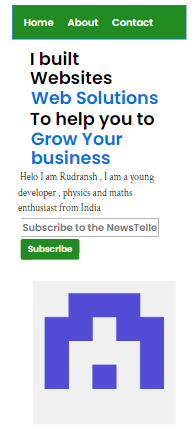
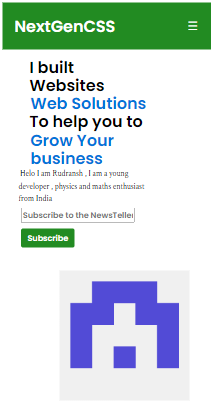
example updated

diff --git a/src/index.css b/src/index.css
@@ -1,1 +1,1 @@
-@import url("https://fonts.googleapis.com/css2?family=Instrument+Sans:wght@400;600&family=Poppins:wght@600&display=swap");@import url("https://fonts.googleapis.com/css2?family=Crimson+Text&family=Playfair+Display:ital@1&display=swap");@import url("https://fonts.googleapis.com/css2?family=Instrument+Sans:wght@400;600&family=Poppins:wght@600&display=swap");@import url("https://fonts.googleapis.com/css2?family=Crimson+Text&family=Playfair+Display:ital@1&display=swap");@use 'sass:math';.font-serif{font-family:serif}.font-sans{font-family:sans-serif}.font-arial{font-family:Arial,Helvetica,sans-serif}.font-primary{color:#0074d9}.font-dark{color:#000}.font-alert{color:#dc143c}.font-leaf{color:#228b22}.font-orange{color:#ff4500}.font-yellow{color:#ffd700}.font-gray{color:#708090}.font-purple{color:#967bb6}.font-choco{color:#d2691e}.font-pink{color:#ff69b4}.font-white{color:#fff}*,*::before,*::after{box-sizing:border-box}html{-moz-text-size-adjust:none;-webkit-text-size-adjust:none;text-size-adjust:none}body,h1,h2,h3,h4,p,figure,blockquote,dl,dd{margin:0}ul[role='list'],ol[role='list']{list-style:none}body{min-height:100vh;line-height:1.5}h1,h2,h3,h4,button,input,label{line-height:1.1}h1,h2,h3,h4{text-wrap:balance}a:not([class]){text-decoration-skip-ink:auto;color:currentColor}img,picture{max-width:100%;display:block}input,button,textarea,select{font:inherit}textarea:not([rows]){min-height:10em}:target{scroll-margin-block:5ex}.lazy-load,*{content-visibility:auto}.no-lazy-load{content-visibility:visible}body{font-size:16px}@media only screen and (max-width:767px){body{font-size:16px}}@media only screen and (min-width:768px) and (max-width:991px){body{font-size:18px}}@media only screen and (min-width:992px){body{font-size:20px}}.font-serif{font-family:serif}.font-sans{font-family:sans-serif}.font-arial{font-family:Arial,Helvetica,sans-serif}.font-primary{color:#0074d9}.font-dark{color:#000}.font-alert{color:#dc143c}.font-leaf{color:#228b22}.font-orange{color:#ff4500}.font-yellow{color:#ffd700}.font-gray{color:#708090}.font-purple{color:#967bb6}.font-choco{color:#d2691e}.font-pink{color:#ff69b4}.font-white{color:#fff}button{cursor:pointer;outline:0;color:#fff;background-color:#0074d9;border-color:#0074d9;display:inline-block;font-weight:400;line-height:1.5;text-align:center;border:.0625rem solid transparent;padding:.375rem .75rem;font-size:1rem;border-radius:.25rem}button:hover{color:#fff;background-color:#708090;border-color:#708090}.btn-curve{outline:0;cursor:pointer;font-size:1rem;line-height:1.25rem;font-weight:600;border-radius:.5rem;border:0;background:#0074d9;color:#fff}.btn-curve:hover{color:#fff;background-color:#708090;border-color:#708090}.btn-bootstrap{cursor:pointer;outline:0;display:inline-block;font-weight:400;line-height:1.5;text-align:center;background-color:transparent;border:1px solid transparent;padding:6px 12px;font-size:1rem;border-radius:.25rem;transition:color .15s ease-in-out,background-color .15s ease-in-out,border-color .15s ease-in-out,box-shadow .15s ease-in-out;color:#0074d9;border-color:#0074d9}.btn-bootstrap:hover{color:#fff;background-color:#708090;border-color:#708090}.btn-circle{display:inline-block;outline:0;cursor:pointer;font-size:14px;line-height:1;border-radius:500px;transition-property:background-color,border-color,color,box-shadow,filter;transition-duration:.3s;border:1px solid transparent;letter-spacing:2px;min-width:160px;text-transform:uppercase;white-space:normal;font-weight:700;text-align:center;padding:16px 14px 18px;color:#fff;background-color:#228b22;height:48px}.btn-circle :hover{background-color:#708090}.bg-primary{background-color:#0074d9}.bg-dark{background-color:#000}.bg-alert{background-color:#dc143c}.bg-leaf{background-color:#228b22}.bg-orange{background-color:#ff4500}.bg-yellow{background-color:#ffd700}.bg-gray{background-color:#708090}.bg-purple{background-color:#967bb6}.bg-choco{background-color:#d2691e}.bg-pink{background-color:#ff69b4}.bg-white{background-color:#fff}.br-primary{border-right:.1rem solid #0074d9}.br-dark{border-right:.1rem solid #000}.br-alert{border-right:.1rem solid #dc143c}.br-leaf{border-right:.1rem solid #228b22}.br-orange{border-right:.1rem solid #ff4500}.br-yellow{border-right:.1rem solid #ffd700}.br-gray{border-right:.1rem solid #708090}.br-purple{border-right:.1rem solid #967bb6}.br-choco{border-right:.1rem solid #d2691e}.br-pink{border-right:.1rem solid #ff69b4}.br-white{border-right:.1rem solid #fff}.bl-primary{border-left:.1rem solid #0074d9}.bl-dark{border-left:.1rem solid #000}.bl-alert{border-left:.1rem solid #dc143c}.bl-leaf{border-left:.1rem solid #228b22}.bl-orange{border-left:.1rem solid #ff4500}.bl-yellow{border-left:.1rem solid #ffd700}.bl-gray{border-left:.1rem solid #708090}.bl-purple{border-left:.1rem solid #967bb6}.bl-choco{border-left:.1rem solid #d2691e}.bl-pink{border-left:.1rem solid #ff69b4}.bl-white{border-left:.1rem solid #fff}.bt-primary{border-top:.1rem solid #0074d9}.bt-dark{border-top:.1rem solid #000}.bt-alert{border-top:.1rem solid #dc143c}.bt-leaf{border-top:.1rem solid #228b22}.bt-orange{border-top:.1rem solid #ff4500}.bt-yellow{border-top:.1rem solid #ffd700}.bt-gray{border-top:.1rem solid #708090}.bt-purple{border-top:.1rem solid #967bb6}.bt-choco{border-top:.1rem solid #d2691e}.bt-pink{border-top:.1rem solid #ff69b4}.bt-white{border-top:.1rem solid #fff}.bb-primary{border-bottom:.1rem solid #0074d9}.bb-dark{border-bottom:.1rem solid #000}.bb-alert{border-bottom:.1rem solid #dc143c}.bb-leaf{border-bottom:.1rem solid #228b22}.bb-orange{border-bottom:.1rem solid #ff4500}.bb-yellow{border-bottom:.1rem solid #ffd700}.bb-gray{border-bottom:.1rem solid #708090}.bb-purple{border-bottom:.1rem solid #967bb6}.bb-choco{border-bottom:.1rem solid #d2691e}.bb-pink{border-bottom:.1rem solid #ff69b4}.bb-white{border-bottom:.1rem solid #fff}.b-primary{border:.1rem solid #0074d9}.b-dark{border:.1rem solid #000}.b-alert{border:.1rem solid #dc143c}.b-leaf{border:.1rem solid #228b22}.b-orange{border:.1rem solid #ff4500}.b-yellow{border:.1rem solid #ffd700}.b-gray{border:.1rem solid #708090}.b-purple{border:.1rem solid #967bb6}.b-choco{border:.1rem solid #d2691e}.b-pink{border:.1rem solid #ff69b4}.b-white{border:.1rem solid #fff}html{font-size:16px}*{margin:.1rem;padding:.1rem;font-family:"Poppins",sans-serif}h1{font-size:2rem}h2{font-size:1.5rem}h3{font-size:1.25rem}h4{font-size:1rem}h5{font-size:.875rem}h6{font-size:.75rem}text{font-family:"Crimson Text",serif}a{text-decoration:none;cursor:pointer}ol{list-style:decimal}ul{list-style:circle}li{display:inline-block;margin-right:.625rem}.link:hover{color:#708090}hr{padding:0;border-top:.0625rem solid #000}.pd-0{padding:0}.pd-1{padding:1rem}.pd-2{padding:2rem}.pd-3{padding:3rem}.pd-4{padding:4rem}.pd-top-0{padding-top:0}.pd-top-1{padding-top:1rem}.pd-top-2{padding-top:2rem}.pd-top-3{padding-top:3rem}.pd-top-4{padding-top:4rem}.pd-bottom-0{padding-bottom:0}.pd-bottom-1{padding-bottom:1rem}.pd-bottom-2{padding-bottom:2rem}.pd-bottom-3{padding-bottom:3rem}.pd-bottom-4{padding-bottom:4rem}.pd-right-0{padding-right:0}.pd-right-1{padding-right:1rem}.pd-right-2{padding-right:2rem}.pd-right-3{padding-right:3rem}.pd-right-4{padding-right:4rem}.pd-left-0{padding-left:0}.pd-left-1{padding-left:1rem}.pd-left-2{padding-left:2rem}.pd-left-3{padding-left:3rem}.pd-left-4{padding-left:4rem}.pd-x-0{padding-right:0;padding-left:0}.pd-x-1{padding-right:1rem;padding-left:1rem}.pd-x-2{padding-right:2rem;padding-left:2rem}.pd-x-3{padding-right:3rem;padding-left:3rem}.pd-x-4{padding-right:4rem;padding-left:4rem}.pd-y-0{padding-top:0;padding-bottom:0}.pd-y-1{padding-top:1rem;padding-bottom:1rem}.pd-y-2{padding-top:2rem;padding-bottom:2rem}.pd-y-3{padding-top:3rem;padding-bottom:3rem}.pd-y-4{padding-top:4rem;padding-bottom:4rem}.mg-0{margin:0}.mg-1{margin:1px}.mg-2{margin:2px}.mg-3{margin:3px}.mg-4{margin:4px}.mg-top-0{margin-top:0}.mg-top-1{margin-top:1px}.mg-top-2{margin-top:2px}.mg-top-3{margin-top:3px}.mg-top-4{margin-top:4px}.mg-bottom-0{margin-bottom:0}.mg-bottom-1{margin-bottom:1px}.mg-bottom-2{margin-bottom:2px}.mg-bottom-3{margin-bottom:3px}.mg-bottom-4{margin-bottom:4px}.mg-right-0{margin-right:0}.mg-right-1{margin-right:1px}.mg-right-2{margin-right:2px}.mg-right-3{margin-right:3px}.mg-right-4{margin-right:4px}.mg-left-0{margin-left:0}.mg-left-1{margin-left:1px}.mg-left-2{margin-left:2px}.mg-left-3{margin-left:3px}.mg-left-4{margin-left:4px}.mg-x-0{margin-right:0;margin-left:0}.mg-x-1{margin-right:1rem;margin-left:1rem}.mg-x-2{margin-right:2rem;margin-left:2rem}.mg-x-3{margin-right:3rem;margin-left:3rem}.mg-x-4{margin-right:4rem;margin-left:4rem}.mg-y-0{margin-top:0;margin-bottom:0}.mg-y-1{margin-top:1rem;margin-bottom:1rem}.mg-y-2{margin-top:2rem;margin-bottom:2rem}.mg-y-3{margin-top:3rem;margin-bottom:3rem}.mg-y-4{margin-top:4rem;margin-bottom:4rem}.size-0{transform:scale(0)}.size-1{transform:scale(1)}.size-2{transform:scale(2)}.size-3{transform:scale(3)}.size-4{transform:scale(4)}.size-01{transform:scale(0.1)}.size-02{transform:scale(0.2)}.size-03{transform:scale(0.3)}.size-04{transform:scale(0.4)}.size-05{transform:scale(0.5)}.size-06{transform:scale(0.6)}.size-07{transform:scale(0.7)}.size-08{transform:scale(0.8)}.size-09{transform:scale(0.9)}.inline-flex{display:inline-flex}.block{display:block}.inline{display:inline}.inline-block{display:inline-block}.flex{display:flex}.flex .flex-item{flex:1}.flex .flex-row{flex-direction:row}.flex .flex-col{flex-direction:column}.flex .flex-wrap{flex-wrap:wrap}.flex .flex-start{justify-content:flex-start}.flex .flex-end{justify-content:flex-end}.flex .flex-center{justify-content:center}.flex .flex-stretch{justify-content:stretch}.flex .flex-space{justify-content:space-around}.center{display:block;margin-left:auto;margin-right:auto;width:40%}.left{float:left;width:18.75rem;padding:.625rem}.right{float:right;width:18.75rem;padding:.625rem}.container{max-width:1000px;margin-left:auto;margin-right:auto}.container:after{content:"";display:table;clear:both}.col-1{width:8.33333%;float:left;margin-right:20px}@media screen and (max-width:480px){.col-1{width:auto;float:none;margin-right:0;margin-bottom:20px}}.col-2{width:16.66667%;float:left;margin-right:20px}@media screen and (max-width:480px){.col-2{width:auto;float:none;margin-right:0;margin-bottom:20px}}.col-3{width:25%;float:left;margin-right:20px}@media screen and (max-width:480px){.col-3{width:auto;float:none;margin-right:0;margin-bottom:20px}}.col-4{width:33.33333%;float:left;margin-right:20px}@media screen and (max-width:480px){.col-4{width:auto;float:none;margin-right:0;margin-bottom:20px}}.col-5{width:41.66667%;float:left;margin-right:20px}@media screen and (max-width:480px){.col-5{width:auto;float:none;margin-right:0;margin-bottom:20px}}.col-6{width:50%;float:left;margin-right:20px}@media screen and (max-width:480px){.col-6{width:auto;float:none;margin-right:0;margin-bottom:20px}}.col-7{width:58.33333%;float:left;margin-right:20px}@media screen and (max-width:480px){.col-7{width:auto;float:none;margin-right:0;margin-bottom:20px}}.col-8{width:66.66667%;float:left;margin-right:20px}@media screen and (max-width:480px){.col-8{width:auto;float:none;margin-right:0;margin-bottom:20px}}.col-9{width:75%;float:left;margin-right:20px}@media screen and (max-width:480px){.col-9{width:auto;float:none;margin-right:0;margin-bottom:20px}}.col-10{width:83.33333%;float:left;margin-right:20px}@media screen and (max-width:480px){.col-10{width:auto;float:none;margin-right:0;margin-bottom:20px}}.col-11{width:91.66667%;float:left;margin-right:20px}@media screen and (max-width:480px){.col-11{width:auto;float:none;margin-right:0;margin-bottom:20px}}.col-12{width:100%;float:left;margin-right:20px}@media screen and (max-width:480px){.col-12{width:auto;float:none;margin-right:0;margin-bottom:20px}}.grid{max-width:1000px;margin-left:auto;margin-right:auto}.grid-item:after{content:"";display:table;clear:both}.grid-item .col-4{width:33.33333%;float:left;margin-right:20px}@media screen and (max-width:480px){.grid-item .col-4{width:auto;float:none;margin-right:0;margin-bottom:20px}}.grid-item .col-8{width:66.66667%;float:left;margin-right:20px}@media screen and (max-width:480px){.grid-item .col-8{width:auto;float:none;margin-right:0;margin-bottom:20px}}@media screen and (max-width:720px){.grid-item .col-4,.grid-item .col-8{width:100%}}.card{display:block;gap:1rem;grid-template-columns:repeat(auto-fit,minmax(240px,1fr));padding:.75rem;width:100%;max-width:40%;overflow:hidden}.card .card-title{font-size:1rem;padding-bottom:.75rem;font-weight:bold}.card .card-body{font-size:1rem}.card .card-body a{text-decoration:underline}.box{width:100%;max-width:1200px;margin:0 auto;width:100%;padding:0 20px;box-sizing:border-box}.box .center-box{justify-content:center;align-items:center}.navbar{display:flex;align-items:center;justify-content:space-between;padding:20px;background-color:#0074d9;color:#fff}.nav-links a{color:#fff}.logo{font-size:32px}.menu{display:flex;gap:1em;font-size:18px}.menu li:hover{background-color:#0074d9;border-radius:5px;transition:.3s ease}.menu li{padding:5px 14px}.services{position:relative}.dropdown{background-color:#0074d9;padding:1em 0;position:absolute;display:none;border-radius:8px;top:35px}.dropdown li+li{margin-top:10px}.dropdown li{padding:.5em 1em;width:8em;text-align:center}.dropdown li:hover{background-color:#0074d9}.services:hover .dropdown{display:block}input[type=checkbox]{display:none}.hamburger{display:none;font-size:24px;user-select:none}@media(max-width:768px){.menu{display:none;position:absolute;background-color:#0074d9;right:0;left:0;text-align:center;padding:16px 0}.menu li:hover{display:inline-block;background-color:#0074d9;transition:.3s ease}.menu li+li{margin-top:12px}input[type=checkbox]:checked ~ .menu{display:block}.hamburger{display:block}.dropdown{left:50%;top:30px;transform:translateX(35%)}.dropdown li:hover{background-color:#0074d9}}
+@import url("https://fonts.googleapis.com/css2?family=Instrument+Sans:wght@400;600&family=Poppins:wght@600&display=swap");@import url("https://fonts.googleapis.com/css2?family=Crimson+Text&family=Playfair+Display:ital@1&display=swap");@import url("https://fonts.googleapis.com/css2?family=Instrument+Sans:wght@400;600&family=Poppins:wght@600&display=swap");@import url("https://fonts.googleapis.com/css2?family=Crimson+Text&family=Playfair+Display:ital@1&display=swap");@use 'sass:math';.font-serif{font-family:serif}.font-sans{font-family:sans-serif}.font-arial{font-family:Arial,Helvetica,sans-serif}.font-primary{color:#0074d9}.font-dark{color:#000}.font-alert{color:#dc143c}.font-leaf{color:#228b22}.font-orange{color:#ff4500}.font-yellow{color:#ffd700}.font-gray{color:#708090}.font-purple{color:#967bb6}.font-choco{color:#d2691e}.font-pink{color:#ff69b4}.font-white{color:#fff}*,*::before,*::after{box-sizing:border-box}html{-moz-text-size-adjust:none;-webkit-text-size-adjust:none;text-size-adjust:none}body,h1,h2,h3,h4,p,figure,blockquote,dl,dd{margin:0}ul[role='list'],ol[role='list']{list-style:none}body{min-height:100vh;line-height:1.5}h1,h2,h3,h4,button,input,label{line-height:1.1}h1,h2,h3,h4{text-wrap:balance}a:not([class]){text-decoration-skip-ink:auto;color:currentColor}img,picture{max-width:100%;display:block}input,button,textarea,select{font:inherit}textarea:not([rows]){min-height:10em}:target{scroll-margin-block:5ex}.lazy-load,*{content-visibility:auto}.no-lazy-load{content-visibility:visible}body{font-size:16px}@media only screen and (max-width:767px){body{font-size:16px}}@media only screen and (min-width:768px) and (max-width:991px){body{font-size:18px}}@media only screen and (min-width:992px){body{font-size:20px}}.font-serif{font-family:serif}.font-sans{font-family:sans-serif}.font-arial{font-family:Arial,Helvetica,sans-serif}.font-primary{color:#0074d9}.font-dark{color:#000}.font-alert{color:#dc143c}.font-leaf{color:#228b22}.font-orange{color:#ff4500}.font-yellow{color:#ffd700}.font-gray{color:#708090}.font-purple{color:#967bb6}.font-choco{color:#d2691e}.font-pink{color:#ff69b4}.font-white{color:#fff}button{cursor:pointer;outline:0;color:#fff;background-color:#0074d9;border-color:#0074d9;display:inline-block;font-weight:400;line-height:1.5;text-align:center;border:.0625rem solid transparent;padding:.375rem .75rem;font-size:1rem;border-radius:.25rem}button:hover{color:#fff;background-color:#708090;border-color:#708090}.btn-curve{outline:0;cursor:pointer;font-size:1rem;line-height:1.25rem;font-weight:600;border-radius:.5rem;border:0;background:#0074d9;color:#fff}.btn-curve:hover{color:#fff;background-color:#708090;border-color:#708090}.btn-bootstrap{cursor:pointer;outline:0;display:inline-block;font-weight:400;line-height:1.5;text-align:center;background-color:transparent;border:1px solid transparent;padding:6px 12px;font-size:1rem;border-radius:.25rem;transition:color .15s ease-in-out,background-color .15s ease-in-out,border-color .15s ease-in-out,box-shadow .15s ease-in-out;color:#0074d9;border-color:#0074d9}.btn-bootstrap:hover{color:#fff;background-color:#708090;border-color:#708090}.btn-circle{display:inline-block;outline:0;cursor:pointer;font-size:14px;line-height:1;border-radius:500px;transition-property:background-color,border-color,color,box-shadow,filter;transition-duration:.3s;border:1px solid transparent;letter-spacing:2px;min-width:160px;text-transform:uppercase;white-space:normal;font-weight:700;text-align:center;padding:16px 14px 18px;color:#fff;background-color:#228b22;height:48px}.btn-circle :hover{background-color:#708090}.bg-primary{background-color:#0074d9 !important}.bg-dark{background-color:#000 !important}.bg-alert{background-color:#dc143c !important}.bg-leaf{background-color:#228b22 !important}.bg-orange{background-color:#ff4500 !important}.bg-yellow{background-color:#ffd700 !important}.bg-gray{background-color:#708090 !important}.bg-purple{background-color:#967bb6 !important}.bg-choco{background-color:#d2691e !important}.bg-pink{background-color:#ff69b4 !important}.bg-white{background-color:#fff !important}.br-primary{border-right:.1rem solid #0074d9}.br-dark{border-right:.1rem solid #000}.br-alert{border-right:.1rem solid #dc143c}.br-leaf{border-right:.1rem solid #228b22}.br-orange{border-right:.1rem solid #ff4500}.br-yellow{border-right:.1rem solid #ffd700}.br-gray{border-right:.1rem solid #708090}.br-purple{border-right:.1rem solid #967bb6}.br-choco{border-right:.1rem solid #d2691e}.br-pink{border-right:.1rem solid #ff69b4}.br-white{border-right:.1rem solid #fff}.bl-primary{border-left:.1rem solid #0074d9}.bl-dark{border-left:.1rem solid #000}.bl-alert{border-left:.1rem solid #dc143c}.bl-leaf{border-left:.1rem solid #228b22}.bl-orange{border-left:.1rem solid #ff4500}.bl-yellow{border-left:.1rem solid #ffd700}.bl-gray{border-left:.1rem solid #708090}.bl-purple{border-left:.1rem solid #967bb6}.bl-choco{border-left:.1rem solid #d2691e}.bl-pink{border-left:.1rem solid #ff69b4}.bl-white{border-left:.1rem solid #fff}.bt-primary{border-top:.1rem solid #0074d9}.bt-dark{border-top:.1rem solid #000}.bt-alert{border-top:.1rem solid #dc143c}.bt-leaf{border-top:.1rem solid #228b22}.bt-orange{border-top:.1rem solid #ff4500}.bt-yellow{border-top:.1rem solid #ffd700}.bt-gray{border-top:.1rem solid #708090}.bt-purple{border-top:.1rem solid #967bb6}.bt-choco{border-top:.1rem solid #d2691e}.bt-pink{border-top:.1rem solid #ff69b4}.bt-white{border-top:.1rem solid #fff}.bb-primary{border-bottom:.1rem solid #0074d9}.bb-dark{border-bottom:.1rem solid #000}.bb-alert{border-bottom:.1rem solid #dc143c}.bb-leaf{border-bottom:.1rem solid #228b22}.bb-orange{border-bottom:.1rem solid #ff4500}.bb-yellow{border-bottom:.1rem solid #ffd700}.bb-gray{border-bottom:.1rem solid #708090}.bb-purple{border-bottom:.1rem solid #967bb6}.bb-choco{border-bottom:.1rem solid #d2691e}.bb-pink{border-bottom:.1rem solid #ff69b4}.bb-white{border-bottom:.1rem solid #fff}.b-primary{border:.1rem solid #0074d9}.b-dark{border:.1rem solid #000}.b-alert{border:.1rem solid #dc143c}.b-leaf{border:.1rem solid #228b22}.b-orange{border:.1rem solid #ff4500}.b-yellow{border:.1rem solid #ffd700}.b-gray{border:.1rem solid #708090}.b-purple{border:.1rem solid #967bb6}.b-choco{border:.1rem solid #d2691e}.b-pink{border:.1rem solid #ff69b4}.b-white{border:.1rem solid #fff}html{font-size:16px}*{margin:.1rem;padding:.1rem;font-family:"Poppins",sans-serif}h1{font-size:2rem}h2{font-size:1.5rem}h3{font-size:1.25rem}h4{font-size:1rem}h5{font-size:.875rem}h6{font-size:.75rem}text{font-family:"Crimson Text",serif}a{text-decoration:none;cursor:pointer}ol{list-style:decimal}ul{list-style:circle}li{display:inline-block;margin-right:.625rem}.link:hover{color:#708090}hr{padding:0;border-top:.0625rem solid #000}.pd-0{padding:0}.pd-1{padding:1rem}.pd-2{padding:2rem}.pd-3{padding:3rem}.pd-4{padding:4rem}.pd-top-0{padding-top:0}.pd-top-1{padding-top:1rem}.pd-top-2{padding-top:2rem}.pd-top-3{padding-top:3rem}.pd-top-4{padding-top:4rem}.pd-bottom-0{padding-bottom:0}.pd-bottom-1{padding-bottom:1rem}.pd-bottom-2{padding-bottom:2rem}.pd-bottom-3{padding-bottom:3rem}.pd-bottom-4{padding-bottom:4rem}.pd-right-0{padding-right:0}.pd-right-1{padding-right:1rem}.pd-right-2{padding-right:2rem}.pd-right-3{padding-right:3rem}.pd-right-4{padding-right:4rem}.pd-left-0{padding-left:0}.pd-left-1{padding-left:1rem}.pd-left-2{padding-left:2rem}.pd-left-3{padding-left:3rem}.pd-left-4{padding-left:4rem}.pd-x-0{padding-right:0;padding-left:0}.pd-x-1{padding-right:1rem;padding-left:1rem}.pd-x-2{padding-right:2rem;padding-left:2rem}.pd-x-3{padding-right:3rem;padding-left:3rem}.pd-x-4{padding-right:4rem;padding-left:4rem}.pd-y-0{padding-top:0;padding-bottom:0}.pd-y-1{padding-top:1rem;padding-bottom:1rem}.pd-y-2{padding-top:2rem;padding-bottom:2rem}.pd-y-3{padding-top:3rem;padding-bottom:3rem}.pd-y-4{padding-top:4rem;padding-bottom:4rem}.mg-0{margin:0}.mg-1{margin:1px}.mg-2{margin:2px}.mg-3{margin:3px}.mg-4{margin:4px}.mg-top-0{margin-top:0}.mg-top-1{margin-top:1px}.mg-top-2{margin-top:2px}.mg-top-3{margin-top:3px}.mg-top-4{margin-top:4px}.mg-bottom-0{margin-bottom:0}.mg-bottom-1{margin-bottom:1px}.mg-bottom-2{margin-bottom:2px}.mg-bottom-3{margin-bottom:3px}.mg-bottom-4{margin-bottom:4px}.mg-right-0{margin-right:0}.mg-right-1{margin-right:1px}.mg-right-2{margin-right:2px}.mg-right-3{margin-right:3px}.mg-right-4{margin-right:4px}.mg-left-0{margin-left:0}.mg-left-1{margin-left:1px}.mg-left-2{margin-left:2px}.mg-left-3{margin-left:3px}.mg-left-4{margin-left:4px}.mg-x-0{margin-right:0;margin-left:0}.mg-x-1{margin-right:1rem;margin-left:1rem}.mg-x-2{margin-right:2rem;margin-left:2rem}.mg-x-3{margin-right:3rem;margin-left:3rem}.mg-x-4{margin-right:4rem;margin-left:4rem}.mg-y-0{margin-top:0;margin-bottom:0}.mg-y-1{margin-top:1rem;margin-bottom:1rem}.mg-y-2{margin-top:2rem;margin-bottom:2rem}.mg-y-3{margin-top:3rem;margin-bottom:3rem}.mg-y-4{margin-top:4rem;margin-bottom:4rem}.size-0{transform:scale(0)}.size-1{transform:scale(1)}.size-2{transform:scale(2)}.size-3{transform:scale(3)}.size-4{transform:scale(4)}.size-01{transform:scale(0.1)}.size-02{transform:scale(0.2)}.size-03{transform:scale(0.3)}.size-04{transform:scale(0.4)}.size-05{transform:scale(0.5)}.size-06{transform:scale(0.6)}.size-07{transform:scale(0.7)}.size-08{transform:scale(0.8)}.size-09{transform:scale(0.9)}.inline-flex{display:inline-flex}.block{display:block}.inline{display:inline}.inline-block{display:inline-block}.flex{display:flex}.flex .flex-item{flex:1}.flex .flex-row{flex-direction:row}.flex .flex-col{flex-direction:column}.flex .flex-wrap{flex-wrap:wrap}.flex .flex-start{justify-content:flex-start}.flex .flex-end{justify-content:flex-end}.flex .flex-center{justify-content:center}.flex .flex-stretch{justify-content:stretch}.flex .flex-space{justify-content:space-around}.center{display:block;margin-left:auto;margin-right:auto;width:40%}.left{float:left;width:18.75rem;padding:.625rem}.right{float:right;width:18.75rem;padding:.625rem}.container{max-width:1000px;margin-left:auto;margin-right:auto}.container:after{content:"";display:table;clear:both}.col-1{width:8.33333%;float:left;margin-right:20px}@media screen and (max-width:480px){.col-1{width:auto;float:none;margin-right:0;margin-bottom:20px}}.col-2{width:16.66667%;float:left;margin-right:20px}@media screen and (max-width:480px){.col-2{width:auto;float:none;margin-right:0;margin-bottom:20px}}.col-3{width:25%;float:left;margin-right:20px}@media screen and (max-width:480px){.col-3{width:auto;float:none;margin-right:0;margin-bottom:20px}}.col-4{width:33.33333%;float:left;margin-right:20px}@media screen and (max-width:480px){.col-4{width:auto;float:none;margin-right:0;margin-bottom:20px}}.col-5{width:41.66667%;float:left;margin-right:20px}@media screen and (max-width:480px){.col-5{width:auto;float:none;margin-right:0;margin-bottom:20px}}.col-6{width:50%;float:left;margin-right:20px}@media screen and (max-width:480px){.col-6{width:auto;float:none;margin-right:0;margin-bottom:20px}}.col-7{width:58.33333%;float:left;margin-right:20px}@media screen and (max-width:480px){.col-7{width:auto;float:none;margin-right:0;margin-bottom:20px}}.col-8{width:66.66667%;float:left;margin-right:20px}@media screen and (max-width:480px){.col-8{width:auto;float:none;margin-right:0;margin-bottom:20px}}.col-9{width:75%;float:left;margin-right:20px}@media screen and (max-width:480px){.col-9{width:auto;float:none;margin-right:0;margin-bottom:20px}}.col-10{width:83.33333%;float:left;margin-right:20px}@media screen and (max-width:480px){.col-10{width:auto;float:none;margin-right:0;margin-bottom:20px}}.col-11{width:91.66667%;float:left;margin-right:20px}@media screen and (max-width:480px){.col-11{width:auto;float:none;margin-right:0;margin-bottom:20px}}.col-12{width:100%;float:left;margin-right:20px}@media screen and (max-width:480px){.col-12{width:auto;float:none;margin-right:0;margin-bottom:20px}}.grid{max-width:1000px;margin-left:auto;margin-right:auto}.grid-item:after{content:"";display:table;clear:both}.grid-item .col-4{width:33.33333%;float:left;margin-right:20px}@media screen and (max-width:480px){.grid-item .col-4{width:auto;float:none;margin-right:0;margin-bottom:20px}}.grid-item .col-8{width:66.66667%;float:left;margin-right:20px}@media screen and (max-width:480px){.grid-item .col-8{width:auto;float:none;margin-right:0;margin-bottom:20px}}@media screen and (max-width:720px){.grid-item .col-4,.grid-item .col-8{width:100%}}.card{display:block;gap:1rem;grid-template-columns:repeat(auto-fit,minmax(240px,1fr));padding:.75rem;width:100%;max-width:40%;overflow:hidden}.card .card-title{font-size:1rem;padding-bottom:.75rem;font-weight:bold}.card .card-body{font-size:1rem}.card .card-body a{text-decoration:underline}.box{width:100%;max-width:1200px;margin:0 auto;width:100%;padding:0 20px;box-sizing:border-box}.box .center-box{justify-content:center;align-items:center}.navbar{display:flex;align-items:center;justify-content:space-between;padding:20px;background-color:#0074d9;color:#fff}.nav-links a{color:#fff}.logo{font-size:32px}.menu{display:flex;gap:1em;font-size:18px}.menu li:hover{border-radius:5px;transition:.3s ease}.menu li{padding:5px 14px}.services{position:relative}.dropdown{padding:1em 0;position:absolute;display:none;border-radius:8px;top:35px}.dropdown li+li{margin-top:10px}.dropdown li{padding:.5em 1em;width:8em;text-align:center}.services:hover .dropdown{display:block}input[type=checkbox]{display:none}.hamburger{display:none;font-size:24px;user-select:none}@media(max-width:768px){.menu{display:none;position:absolute;right:0;left:0;text-align:center;padding:16px 0}.menu li:hover{display:inline-block;transition:.3s ease}.menu li+li{margin-top:12px}input[type=checkbox]:checked ~ .menu{display:block}.hamburger{display:block}.dropdown{left:50%;top:30px;transform:translateX(35%)}}

diff --git a/src/final/index.css/index.css b/src/final/index.css/index.css
@@ -247,37 +247,37 @@ button {
     background-color: #708090; }
 
 .bg-primary {
-  background-color: #0074D9; }
+  background-color: #0074D9 !important; }
 
 .bg-dark {
-  background-color: #000000; }
+  background-color: #000000 !important; }
 
 .bg-alert {
-  background-color: #DC143C; }
+  background-color: #DC143C !important; }
 
 .bg-leaf {
-  background-color: #228B22; }
+  background-color: #228B22 !important; }
 
 .bg-orange {
-  background-color: #FF4500; }
+  background-color: #FF4500 !important; }
 
 .bg-yellow {
-  background-color: #FFD700; }
+  background-color: #FFD700 !important; }
 
 .bg-gray {
-  background-color: #708090; }
+  background-color: #708090 !important; }
 
 .bg-purple {
-  background-color: #967BB6; }
+  background-color: #967BB6 !important; }
 
 .bg-choco {
-  background-color: #D2691E; }
+  background-color: #D2691E !important; }
 
 .bg-pink {
-  background-color: #FF69B4; }
+  background-color: #FF69B4 !important; }
 
 .bg-white {
-  background-color: #FFFFFF; }
+  background-color: #FFFFFF !important; }
 
 .br-primary {
   border-right: 0.1rem solid #0074D9; }
@@ -1043,7 +1043,6 @@ hr {
   font-size: 18px; }
 
 .menu li:hover {
-  background-color: #0074D9;
   border-radius: 5px;
   transition: 0.3s ease; }
 
@@ -1055,7 +1054,6 @@ hr {
   position: relative; }
 
 .dropdown {
-  background-color: #0074D9;
   padding: 1em 0;
   position: absolute;
   /*WITH RESPECT TO PARENT*/
@@ -1070,9 +1068,6 @@ hr {
   padding: 0.5em 1em;
   width: 8em;
   text-align: center; }
-
-.dropdown li:hover {
-  background-color: #0074D9; }
 
 .services:hover .dropdown {
   display: block; }
@@ -1091,14 +1086,12 @@ input[type=checkbox] {
   .menu {
     display: none;
     position: absolute;
-    background-color: #0074D9;
     right: 0;
     left: 0;
     text-align: center;
     padding: 16px 0; }
   .menu li:hover {
     display: inline-block;
-    background-color: #0074D9;
     transition: 0.3s ease; }
   .menu li + li {
     margin-top: 12px; }
@@ -1109,6 +1102,4 @@ input[type=checkbox] {
   .dropdown {
     left: 50%;
     top: 30px;
-    transform: translateX(35%); }
-  .dropdown li:hover {
-    background-color: #0074D9; } }
+    transform: translateX(35%); } }

diff --git a/src/components/_navbar.scss b/src/components/_navbar.scss
@@ -24,7 +24,7 @@
 }
 
 .menu li:hover {
-  background-color: Get-Color('primary');
+  // background-color: Get-Color('primary');
   border-radius: 5px;
   transition: 0.3s ease;
 }
@@ -39,8 +39,7 @@
 }
 
 .dropdown {
-  background-color: Get-Color('primary');
-  ;
+  // background-color: Get-Color('primary');
   padding: 1em 0;
   position: absolute;
   /*WITH RESPECT TO PARENT*/
@@ -60,7 +59,7 @@
 }
 
 .dropdown li:hover {
-  background-color: Get-Color('primary');
+  // background-color: Get-Color('primary');
 }
 
 .services:hover .dropdown {
@@ -84,7 +83,7 @@ input[type=checkbox] {
   .menu {
     display: none;
     position: absolute;
-    background-color: Get-Color('primary');
+    // background-color: Get-Color('primary');
     right: 0;
     left: 0;
     text-align: center;
@@ -93,7 +92,7 @@ input[type=checkbox] {
 
   .menu li:hover {
     display: inline-block;
-    background-color: Get-Color('primary');
+    // background-color: Get-Color('primary');
     transition: 0.3s ease;
   }
 
@@ -116,7 +115,7 @@ input[type=checkbox] {
   }
 
   .dropdown li:hover {
-    background-color: Get-Color('primary');
-    ;
+    // background-color: Get-Color('primary');
+    // ;
   }
 }

diff --git a/src/base/_color.scss b/src/base/_color.scss
@@ -6,7 +6,7 @@
 // Syntax :- bg-{color}
 // compiled as :- background-color : {color};
 @mixin background($color) {
-    background-color: $color; 
+    background-color: $color !important; 
 }
 
 @for $i from 1 through length($colors) {

diff --git a/example/homepage.html b/example/homepage.html
@@ -14,7 +14,7 @@
 
 <body class="no-lazy-load">
 
-    <nav class="navbar">
+    <nav class="navbar bg-leaf">
         <!-- LOGO -->
         <div class="logo">NextGenCSS</div>
     
